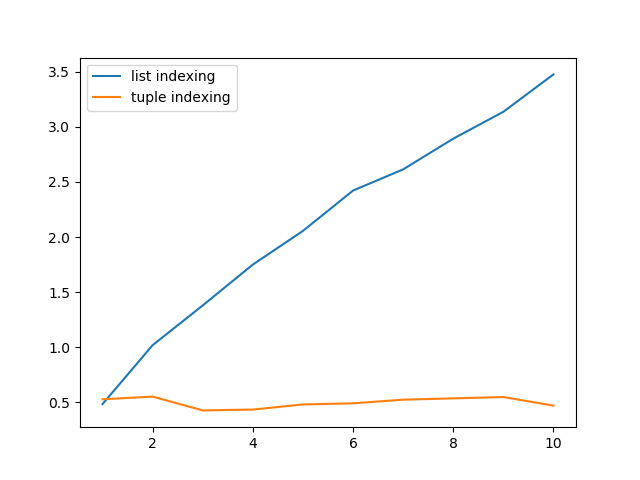
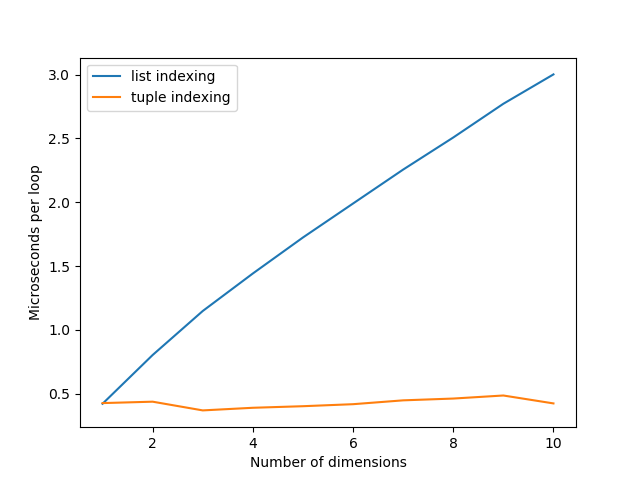
updated plots to include axis labels

diff --git a/_posts/2019-10-05-numpy-indexing.md b/_posts/2019-10-05-numpy-indexing.md
@@ -23,7 +23,7 @@ If you want to index an element in a multi-dimensional (i.e. nested) list in Pyt
 
 This is already ugly for this 2-dimensional example, and for lists that have more levels of nesting it only gets worse.
 
-`Numpy` is a great python package for working with multi-dimensional numerical data. You can effectively use it the same as if it is still the same data-structure in Python.
+[`Numpy`][3] is a great python package for working with multi-dimensional numerical data. You can effectively use it the same as if it is still the same data-structure in Python.
 
 ```python
 >>> import numpy as np
@@ -53,7 +53,7 @@ Let's start with the 1D case to get a baseline:
 
 ```python
 A = np.zeros(8)
-In [18]: %timeit A[4]
+%timeit A[4]
 ```
 183 ns ± 3 ns per loop (mean ± std. dev. of 7 runs, 10000000 loops each)
 
@@ -95,6 +95,8 @@ To make sure we're getting the full picture, let's repeat the previous experimen
 
 The following script times the same indexing statement we've tested previously, and passes along the locally created array `A` to the `globals` parameter as an alternative to defining it as `setup`.
 
+By using `min(repeat(...))` instead of `timeit(...)` we get the minimum time out of 5 runs. This means our results are less likely influenced by any other processes that happen to be running at the same time during our script.
+
 *These experiments make heavy use of the Python 3.6+ f-strings. For more information on them, see [here][2] or let me know if you want me to write a blog post about them*
 
 ```python
@@ -115,6 +117,8 @@ for ndim in ndims:
 
 plt.plot(ndims, list_idxing, label='list indexing')
 plt.plot(ndims, tupl_idxing, label='tuple indexing')
+plt.xlabel("Number of dimensions")
+plt.ylabel("Microseconds per loop")
 plt.legend(loc=0)
 plt.show()
 ```
@@ -139,6 +143,8 @@ for ndim in ndims:
 
 plt.plot(ndims, list_idxing, label='list indexing')
 plt.plot(ndims, tupl_idxing, label='tuple indexing')
+plt.xlabel("Number of dimensions")
+plt.ylabel("Microseconds per loop")
 plt.legend(loc=0)
 plt.show()
 ```
@@ -154,3 +160,4 @@ Using tuple-indexing is significantly faster than nested indexing.
 
 [1]: https://docs.scipy.org/doc/numpy/reference/arrays.indexing.html
 [2]: https://docs.python.org/3.7/reference/lexical_analysis.html#f-strings
+[3]: https://numpy.org/
